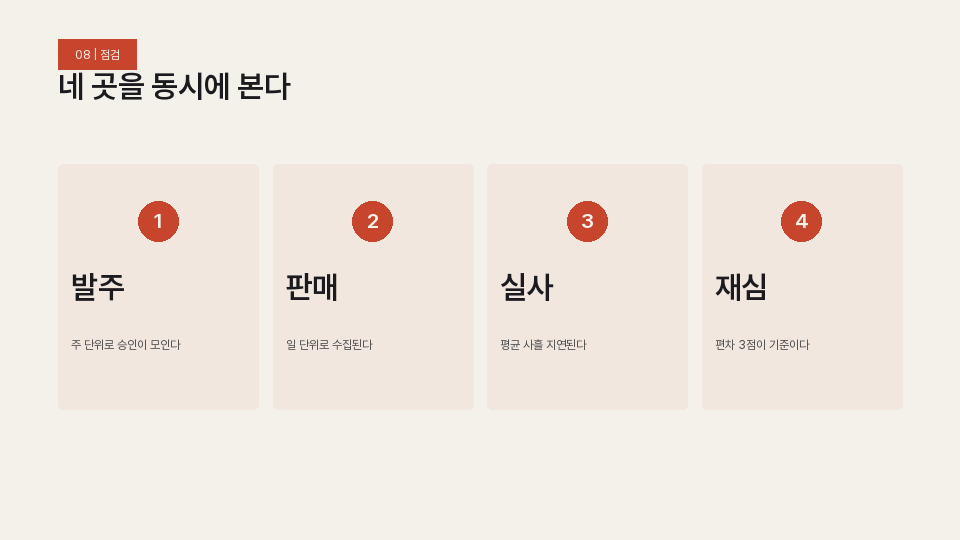
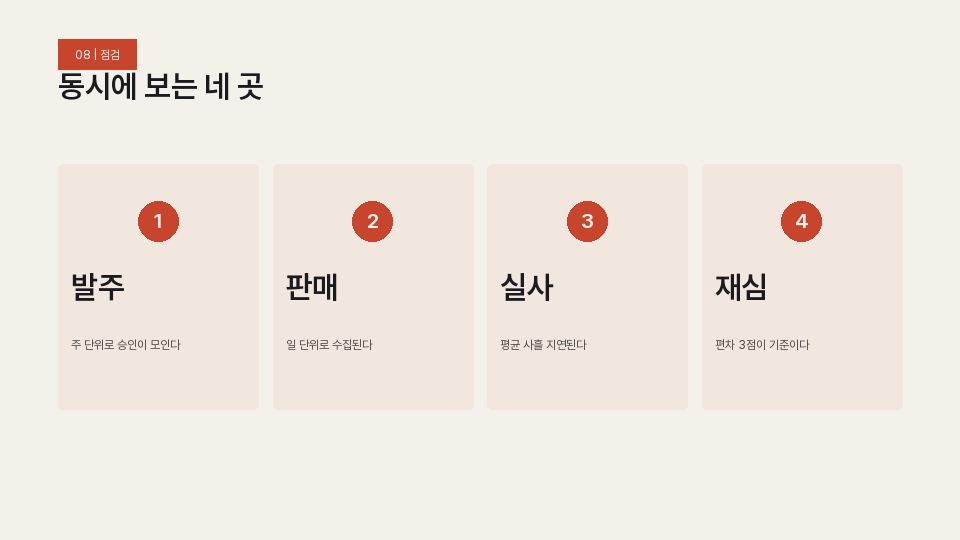
다이어그램 4종 — 타임라인·계단·좌우대비·포함관계
Dive 34장을 한 장씩 구조 분류해 없던 패턴을 찾아 좌표까지 옮겼다.

timeline (10쪽) — 가로 축선 위에 시기, 아래에 제목·설명.
  마디 ø23, step 167.5, 연도 축-50 / 제목 축+28 / 설명 축+61.
  지나간 마디는 faint, 최근은 accent 로 칠해 현재 위치를 표시한다.

stair (26쪽) — 단계가 올라갈수록 패널이 넓어진다 (콘텐츠 폭의 0.40 -> 0.73).
  높이 65, 행 step 72, 배지 ø35 는 패널 좌변+30, 제목은 좌변+82.
  마지막 단만 반전 채움으로 도착점을 표시하고, 예시 라벨은 패널 밖 우측 고정.

compare (17쪽) — 좌우 두 패널 406x212, 간격 25.
  한쪽은 tint, 다른 쪽은 반전 채움이라 어느 쪽이 답인지 색이 먼저 말한다.
  배지 기호(x / o)가 그 판단을 반복한다.

nest (27쪽) — 왼쪽 동심 타원 3개(pale 0.88 -> mid 0.75 -> accent)
  + 오른쪽 설명 패널 3개 + 결론 칩.

부수
- oval() 프리미티브, accent_mid · accent_pale 파생색
- 도형 종류에 node(타임라인 마디) · ring(고리) 분리 —
  활자를 담지 않지만 축 위의 위치와 고리 크기 자체가 관계다
- lint_deck: 선 두께 검사를 짧은 변 기준으로, 도형 내부 좌표는 GRID 예외

레이아웃 17종. 예제 22장이 전부 통과한다.

Changed region(s): [[0.0625, 0.1185, 0.3125, 0.2074]]

diff --git a/scripts/build.py b/scripts/build.py
@@ -401,6 +401,158 @@ def card_grid(d, s, m, sl):
                    color="ink2", tag="card-body")
 
 
+def timeline(d, s, m, sl):
+    """가로 타임라인. 실측 — Dive 10쪽. 축선 위에 시기, 아래에 제목·설명.
+    지나간 마디는 faint, 최근 마디는 accent 로 칠해 현재 위치를 표시한다."""
+    g = L(d)
+    SH = d.spec["shapes"]
+    g.head(s, sl, span=12)
+    nodes = (sl.get("nodes") or [])[:5]
+    n = len(nodes)
+    if not 3 <= n <= 5:
+        raise SystemExit(f"timeline 은 마디 3~5개만 지원한다 (받은 값: {n}).")
+    total = span_w(12)
+    nw = total / n * 0.85
+    step = (total - nw) / (n - 1)
+    body_h = 50 + SH["node_desc_dy"] + 58
+    axis_y = g.top + 50 + max(0.0, (g.h - body_h) * 0.40)
+    d.divider(s, col_x(1) + SH["node_d"] / 2, axis_y,
+              step * (n - 1), color="faint")
+    live = sl.get("live_from", max(1, n - 1))       # 이 마디부터 accent
+    for i, nd in enumerate(nodes):
+        x = col_x(1) + i * step
+        d.badge(s, x + SH["node_d"] / 2, axis_y + 0.5, SH["node_d"],
+                "accent" if i + 1 >= live else "faint", kind="node")
+        d.text(s, "h2", x, axis_y + SH["node_year_dy"], nw, 28,
+               str(nd.get("when", "")), tag="node-year")
+        d.text(s, "lead", x, axis_y + SH["node_title_dy"], nw, 24,
+               str(nd.get("title", "")), font_key="head", tag="node-title")
+        if nd.get("body"):
+            bh_ = g.bh(nd["body"], nw, "small")
+            d.text(s, "small", x, axis_y + SH["node_desc_dy"], nw, bh_,
+                   nd["body"], color="muted", tag="node-body")
+    if sl.get("footnote"):
+        d.text(s, "micro", col_x(1), g.bottom - 16, span_w(8), 15,
+               sl["footnote"], color="muted", tag="footnote")
+
+
+def stair(d, s, m, sl):
+    """단계가 올라갈수록 패널이 넓어지는 계단. 실측 — Dive 26쪽.
+    마지막 단만 반전 채움으로 도착점을 표시한다. 우측 라벨은 패널 밖에 고정."""
+    g = L(d)
+    SH = d.spec["shapes"]
+    g.head(s, sl, span=12)
+    items = (sl.get("items") or [])[:5]
+    n = len(items)
+    if not 3 <= n <= 5:
+        raise SystemExit(f"stair 는 단계 3~5개만 지원한다 (받은 값: {n}).")
+    total = span_w(12)
+    ph, step = SH["stair_h"], SH["stair_step"]
+    y0 = g.top + max(0.0, (g.h - (step * (n - 1) + ph) - 28) * 0.30)
+    has_label = any(it.get("label") for it in items)
+    lab_x = col_x(1) + total - 194 if has_label else None
+    for i, it in enumerate(items):
+        frac = SH["stair_w_min"] + (SH["stair_w_max"] - SH["stair_w_min"]) * i / (n - 1)
+        w = total * frac
+        y = y0 + i * step
+        last = (i == n - 1)
+        d.panel(s, col_x(1), y, w, ph,
+                color="figure" if last else "accent_tint", radius=SH["panel_radius"])
+        d.badge(s, col_x(1) + SH["stair_pad_x"] + SH["stair_badge_d"] / 2, y + ph / 2,
+                SH["stair_badge_d"], "accent_soft" if last else "accent",
+                glyph=str(it.get("index", i + 1)),
+                glyph_color="figure" if last else "ground", style="lead")
+        tc = "ground" if last else "figure"
+        bc = "ground" if last else "muted"
+        tw = w - SH["stair_text_x"] - 20
+        d.text(s, "lead", col_x(1) + SH["stair_text_x"], y + 11, tw, 22,
+               it.get("title", ""), color=tc, font_key="head", tag="stair-title")
+        if it.get("body"):
+            d.text(s, "small", col_x(1) + SH["stair_text_x"], y + 38, tw, 18,
+                   it["body"], color=bc, tag="stair-body")
+        if lab_x and it.get("label"):
+            d.text(s, "h2", lab_x, y + ph / 2 - 14, 194, 28, it["label"],
+                   color="ink2", tag="stair-label")
+    if sl.get("footnote"):
+        d.text(s, "small", col_x(1), g.bottom - 20, span_w(12), 19,
+               sl["footnote"], color="muted", tag="footnote")
+
+
+def compare(d, s, m, sl):
+    """좌우 대비 두 패널. 실측 — Dive 17쪽. 한쪽은 tint, 다른 쪽은 반전 채움으로
+    어느 쪽이 답인지 색이 먼저 말한다. 배지 기호(x / o)가 그 판단을 반복한다."""
+    g = L(d)
+    SH = d.spec["shapes"]
+    g.head(s, sl, span=12)
+    pair = (sl.get("pair") or [])[:2]
+    if len(pair) != 2:
+        raise SystemExit("compare 는 항목이 정확히 2개여야 한다.")
+    ph, gap = SH["compare_h"], SH["compare_gap"]
+    pw = (span_w(12) - gap) / 2
+    y = g.top + max(0.0, (g.h - ph) * 0.30)
+    for i, it in enumerate(pair):
+        x = col_x(1) + i * (pw + gap)
+        good = bool(it.get("good"))
+        d.panel(s, x, y, pw, ph, color="figure" if good else "accent_tint",
+                radius=SH["panel_radius"])
+        d.badge(s, x + SH["stair_pad_x"] + SH["stair_badge_d"] / 2, y + ph / 2,
+                SH["stair_badge_d"], "accent" if good else "accent_soft",
+                glyph=it.get("mark", "\u25cb" if good else "\u00d7"),
+                glyph_color="figure" if good else "ground", style="lead")
+        tx = x + SH["stair_text_x"]
+        tw = pw - SH["stair_text_x"] - 24
+        tc = "ground" if good else "figure"
+        bc = "ground" if good else "ink2"
+        th = g.bh(it.get("title", ""), tw, "h2")
+        d.text(s, "h2", tx, y + 50, tw, th, it.get("title", ""), color=tc,
+               tag="compare-title")
+        if it.get("body"):
+            bh_ = g.bh(it["body"], tw, "body")
+            d.text(s, "body", tx, y + 50 + th + 12, tw, bh_, it["body"],
+                   color=bc, tag="compare-body")
+
+
+def nest(d, s, m, sl):
+    """포함관계. 실측 — Dive 27쪽. 왼쪽 동심 타원 + 오른쪽 설명 패널 + 결론 칩.
+    타원은 바깥에서 안으로 진해진다."""
+    g = L(d)
+    SH = d.spec["shapes"]
+    g.head(s, sl, span=12)
+    rings = (sl.get("rings") or [])[:3]
+    if len(rings) != 3:
+        raise SystemExit("nest 는 고리가 정확히 3개여야 한다.")
+    lw = span_w(6)
+    ox, oy = col_x(1) + 18, g.top + 62
+    ow, oh = lw - 36, 277.0
+    tones = ["accent_pale", "accent_mid", "accent"]
+    for k in range(3):
+        f = k / 3.0
+        w, h = ow * (1 - f * 0.58), oh * (1 - f * 0.61)
+        x = ox + (ow - w) / 2
+        y = oy + k * 42
+        d.oval(s, x, y, w, h, color=tones[k])
+        # 가장 안쪽 고리는 라벨을 세로 중앙에 — 바깥 고리는 위쪽에 얹어 겹침을 피한다
+        ly = y + (h - 24) / 2 if k == 2 else y + 13
+        d.text(s, "lead", x, ly, w, 24, str(rings[k].get("name", "")),
+               align="center", color="ground" if k == 2 else "figure", tag="ring-label")
+
+    rx, rw = col_x(7), span_w(6)
+    pyy, phh = g.top + 62, 80
+    for k, r in enumerate(rings):
+        y = pyy + k * (phh + 9)
+        d.panel(s, rx, y, rw, phh, color="accent_tint", radius=SH["panel_radius"])
+        d.text(s, "h2", rx + SH["stair_pad_x"], y + 8, rw - 60, 26,
+               str(r.get("name", "")), tag="nest-title")
+        if r.get("body"):
+            d.text(s, "small", rx + SH["stair_pad_x"], y + 40, rw - 60, 34,
+                   r["body"], color="ink2", tag="nest-body")
+    if sl.get("conclusion"):
+        cy = pyy + 3 * (phh + 9) + 12
+        d.panel(s, rx, cy, rw, 40, color="figure", radius=SH["panel_radius"])
+        d.text(s, "lead", rx, cy + 10, rw, 22, sl["conclusion"], align="center",
+               color="ground", font_key="head", tag="nest-conclusion")
+
+
 def table(d, s, m, sl):
     T = d.spec["table"]
     g = L(d)
@@ -475,6 +627,7 @@ def image_full(d, s, m, sl):
 LAYOUTS = {"cover": cover, "closing": closing, "section": section, "chain": chain,
            "statement": statement, "two_col": two_col, "cards": cards,
            "panel_list": panel_list, "card_grid": card_grid,
+           "timeline": timeline, "stair": stair, "compare": compare, "nest": nest,
            "data": data, "quote": quote, "table": table,
            "image_split": image_split, "image_full": image_full}
 INVERTED = {"section", "closing"}

diff --git a/scripts/lint_deck.py b/scripts/lint_deck.py
@@ -82,7 +82,9 @@ def main(path):
                 # image_full 의 글자는 판 내부 좌표라 그리드 밖을 허용한다
                 # chain 의 들여쓰기(47.5pt step)와 배지 안 활자는 컬럼 그리드를 일부러 벗어난다.
                 # 계단이 관계를 나타내는 장치이기 때문이다 — 사용자 덱도 82.1/129.6/177.1 이다.
-                if b["tag"].startswith(("chain-", "badge-", "panel-", "chip-", "card-")) or \
+                if b["tag"].startswith(("chain-", "badge-", "panel-", "chip-",
+                                        "card-", "stair-", "compare-", "nest-",
+                                        "node-", "ring-")) or \
                    b["tag"] in ("full-title", "caption", "ledger-index") or \
                    (b["tag"] == "eyebrow" and b["y"] > 300):
                     continue
@@ -95,7 +97,8 @@ def main(path):
                 # image_full 만 예외 — 눈썹이 판 내부(y 340)에 놓인다 (§8.15).
                 ok_y = {(spec.get("rhythm_y") or {}).get("eyebrow_y", 56), 340, 354}
                 # 가운데 정렬은 배지 안 글리프에만 허용한다. 본문은 전부 좌정렬.
-                if b.get("align") == "center" and not b["tag"].startswith(("badge-", "chip-")):
+                if b.get("align") == "center" and not b["tag"].startswith(("badge-", "chip-"))\
+                        and b["tag"] not in ("ring-label", "nest-conclusion"):
                     fail("ALIGN", f"s{n}: '{b['tag']}' 가운데 정렬 — 본문은 좌정렬이다")
                 if b["tag"] == "eyebrow" and b["y"] not in ok_y:
                     fail("EYEBROW_Y", f"s{n}: 눈썹 라벨 y={b['y']} (56 고정)")
@@ -115,8 +118,10 @@ def main(path):
                                f"(최하단 {max(bottoms):.0f})")
         # 도형 어휘 검사 — "도형 금지"가 아니라 "장식만 하는 도형 금지"다.
         # panel/badge 는 안에 활자가 있어야 하고, 선은 관계를 나타내야 한다.
+        # node(타임라인 마디) · ring(포함관계 고리)은 활자를 담지 않는다.
+        # 축 위의 위치, 고리의 크기 자체가 관계를 나타내므로 장식이 아니다.
         ALLOWED = {"plate", "panel", "badge", "chip", "connector",
-                   "hero_rule", "table_rule"}
+                   "node", "ring", "hero_rule", "table_rule"}
         for sh in man.get("shapes", []):
             k, n = sh.get("kind"), sh["slide"]
             if k not in ALLOWED:
@@ -131,8 +136,8 @@ def main(path):
                     fail("SHAPE", f"s{n}: '{k}' 안에 활자가 없다 — 장식 도형은 만들지 않는다")
                 if min(sh["w"], sh["h"]) < spec["plates"]["plate_min_side"] and k == "plate":
                     fail("PLATE", f"s{n}: plate 짧은 변 {min(sh['w'], sh['h'])} 미달")
-            if k == "connector" and sh["w"] > 3:
-                fail("SHAPE", f"s{n}: 연결선 두께 {sh['w']} — 1pt 안팎이어야 한다")
+            if k == "connector" and min(sh["w"], sh["h"]) > 3:
+                fail("SHAPE", f"s{n}: 선 두께 {min(sh['w'], sh['h'])} — 1pt 안팎이어야 한다")
     else:
         fail("PLATE", "매니페스트가 없어 사각형·그리드 검사를 못 했다")
 

diff --git a/scripts/deckkit.py b/scripts/deckkit.py
@@ -126,7 +126,9 @@ def derive(pal: dict, cfg: dict) -> dict:
                "hairline": mix(f, g, c["hairline_mix"]),
                # 실측 — 패널 채움 EDF1EC = accent 를 ground 쪽으로 0.94, 보조 배지 6E9C7F = 0.37
                "accent_tint": mix(pal["accent"], g, c.get("accent_tint_mix", 0.94)),
-               "accent_soft": mix(pal["accent"], g, c.get("accent_soft_mix", 0.37))}
+               "accent_soft": mix(pal["accent"], g, c.get("accent_soft_mix", 0.37)),
+               "accent_mid":  mix(pal["accent"], g, c.get("accent_mid_mix", 0.75)),
+               "accent_pale": mix(pal["accent"], g, c.get("accent_pale_mix", 0.88))}
         assert contrast(out["ink2"], g) >= c["min_ratio_body"], \
             f"ink2 vs ground {contrast(out['ink2'], g):.2f}"
         assert contrast(out["muted"], g) >= c["min_ratio_caption"], \
@@ -140,7 +142,9 @@ def derive(pal: dict, cfg: dict) -> dict:
     return {"ground": g, "figure": f, "accent": pal["accent"],
             "ink2": f, "muted": muted, "faint": muted, "hairline": hairline,
             "accent_tint": mix(pal["accent"], g, 0.94),
-            "accent_soft": mix(pal["accent"], g, 0.37)}
+            "accent_soft": mix(pal["accent"], g, 0.37),
+            "accent_mid":  mix(pal["accent"], g, c.get("accent_mid_mix", 0.75)),
+            "accent_pale": mix(pal["accent"], g, c.get("accent_pale_mix", 0.88))}
 
 
 # ---------------------------------------------------------------- §6 줄수 계산
@@ -464,7 +468,7 @@ class Deck:
                           color, "connector", True)
 
     def badge(self, s, cx, cy, d=32.0, color="accent", glyph="", glyph_color="ground",
-              style="small"):
+              style="small", kind="badge"):
         """원형 배지. 실측 지름 32(주) / 24(보조). 번호·기호를 담아 행의 시작점을 잡는다."""
         x, y = cx - d / 2, cy - d / 2
         sh = s.shapes.add_shape(MSO_SHAPE.OVAL, Pt(x), Pt(y), Pt(d), Pt(d))
@@ -472,11 +476,21 @@ class Deck:
         sh.line.fill.background(); sh.shadow.inherit = False
         sh.text_frame.text = ""
         self.shapes.append(dict(slide=self._slide_i, x=x, y=y, w=d, h=d,
-                                color=self.c(color), kind="badge"))
+                                color=self.c(color), kind=kind))
         if glyph:
             st = self.spec["styles"][style]
             self.text(s, style, x, cy - st["size"] * 0.72, d, st["size"] * 1.45,
                       str(glyph), color=glyph_color, align="center", tag="badge-glyph")
+        return sh
+
+    def oval(self, s, x, y, w, h, color="accent_pale"):
+        """임의 비율 타원. 포함관계(동심원) 다이어그램에만 쓴다."""
+        sh = s.shapes.add_shape(MSO_SHAPE.OVAL, Pt(x), Pt(y), Pt(w), Pt(h))
+        sh.fill.solid(); sh.fill.fore_color.rgb = RGBColor.from_string(self.c(color))
+        sh.line.fill.background(); sh.shadow.inherit = False
+        sh.text_frame.text = ""
+        self.shapes.append(dict(slide=self._slide_i, x=x, y=y, w=w, h=h,
+                                color=self.c(color), kind="ring"))
         return sh
 
     def connector(self, s, x, y, h, w=1.0, color="accent_soft"):
